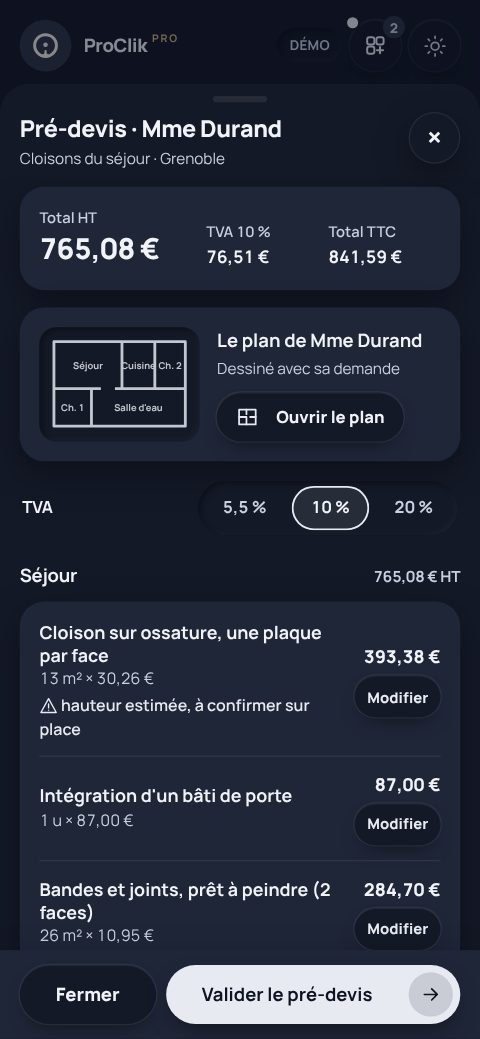
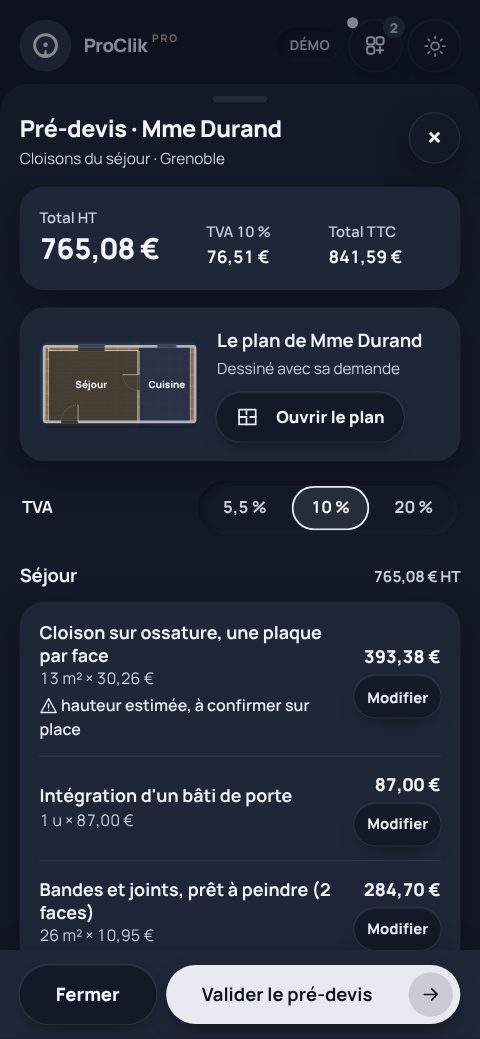
Pré-devis : miniature = vrai plan du client (jour/nuit) ; vitrine : fonction « Vos menus » avec son vrai écran
Claude-Session: https://claude.ai/code/session_0159Hfm1LCg6SKAvpkTMWikp

Changed region(s): [[0.0625, 0.308, 0.4375, 0.4312]]

diff --git a/index.html b/index.html
@@ -1298,6 +1298,7 @@ body[data-hz] .se-pan .se-t{font-size:10.5px;gap:5px;line-height:1.15}body[data-
         <li class="c7"><button class="pas" type="button" id="p-c7" data-k="c7" aria-haspopup="dialog"><svg class="ic" viewBox="0 0 24 24"><path d="M12 21s-6.5-5.6-6.5-11a6.5 6.5 0 0 1 13 0C18.5 15.4 12 21 12 21z"/><circle cx="12" cy="10" r="2.3"/></svg>Votre GPS<svg class="chev" viewBox="0 0 24 24" aria-hidden="true"><path d="m9 6 6 6-6 6"/></svg></button></li>
         <li class="c8"><button class="pas" type="button" id="p-c8" data-k="c8" aria-haspopup="dialog"><svg class="ic" viewBox="0 0 24 24"><rect x="4" y="4" width="7" height="7" rx="2"/><rect x="13" y="4" width="7" height="7" rx="2"/><rect x="4" y="13" width="7" height="7" rx="2"/><rect x="13" y="13" width="7" height="7" rx="2"/></svg>Votre accueil<svg class="chev" viewBox="0 0 24 24" aria-hidden="true"><path d="m9 6 6 6-6 6"/></svg></button></li>
         <li class="c9"><button class="pas" type="button" id="p-c9" data-k="c9" aria-haspopup="dialog"><svg class="ic" viewBox="0 0 24 24"><circle cx="9" cy="8.5" r="3.2"/><path d="M3 19.5a6 6 0 0 1 12 0"/><circle cx="16.5" cy="7" r="2.6"/><path d="M15.5 13.2A5.2 5.2 0 0 1 21 18.5"/></svg>Vos clients<svg class="chev" viewBox="0 0 24 24" aria-hidden="true"><path d="m9 6 6 6-6 6"/></svg></button></li>
+        <li class="c10"><button class="pas" type="button" id="p-c10" data-k="c10" aria-haspopup="dialog"><svg class="ic" viewBox="0 0 24 24"><rect x="3" y="15" width="18" height="6" rx="3"/><path d="M7 18h.01M12 18h.01M17 18h.01M5 5h14M5 9.5h9"/></svg>Vos menus<svg class="chev" viewBox="0 0 24 24" aria-hidden="true"><path d="m9 6 6 6-6 6"/></svg></button></li>
       </ul>
       <div class="appareils">
         <svg class="h-ring" viewBox="0 0 100 100" aria-hidden="true"><circle cx="50" cy="50" r="46"/><circle cx="50" cy="50" r="4" class="pt"/></svg>
@@ -1627,6 +1628,7 @@ document.querySelectorAll('.onglets button').forEach(b=>b.addEventListener('clic
    c7:['Inclus','Votre GPS','Google Maps, Waze ou Plans d’Apple : l’Espace ouvre celui que vous préférez.',['Depuis la fiche client, le chantier ou le planning','Le dernier choisi passe en premier','Un appui, vous êtes en route'],['v-f-gps']],
    c8:['Inclus','Votre accueil','Votre écran d’accueil se range comme celui de votre téléphone.',['Des blocs à déplacer du doigt','Trois dispositions toutes prêtes','Chiffres, journée, choses à faire : vous choisissez'],['v-f-accueil']],
    c9:['Inclus','Vos clients','Tous vos clients au même endroit, particuliers et entreprises, avec où en est chacun.',['Visite, chantier en cours, pré-devis à valider, tout est payé : vous le voyez','Recherche par nom, ville ou travaux','Un client se crée en un appui'],['v-clients']],
+   c10:['Inclus','Vos menus','Vous choisissez les menus toujours à portée de main, dans l’ordre que vous voulez.',['Sur téléphone : les 4 boutons de la barre du bas','Sur iPad et ordinateur : jusqu’à 10 boutons sur le côté','Les autres restent dans le gros bouton du milieu'],['v-f-menus']],
    p1:['Espace PRO','PRO · vous travaillez seul','Tout votre métier dans une seule appli : les demandes, les devis, les factures, l’agenda et vos chiffres.',['Les demandes arrivent rangées, avec le plan du client','Devis et factures conformes en quelques touches','Agenda synchronisé et carte de vos chantiers','Clients, dépenses et chiffre d’affaires au même endroit','Chaque matin, le point du jour. Et tout se dicte'],'galerie'],
    p2:['Espace TEAM','TEAM · vous êtes plusieurs','Tout ce que fait PRO, pour toute l’équipe, avec le chantier partagé dans le forfait.',['Le planning de l’équipe : qui est sur quel chantier, quel jour','Chantier partagé : une conversation avec vos salariés, les entreprises invitées par un lien','Sous-traitants et client : accès gratuit le temps du chantier','Réserves sur le plan, corrigées puis validées'],'galerie'],
    p3:['Espace ARCHI','ARCHI · vous menez le chantier des autres','Le chantier partagé avec toutes les entreprises et votre client, jusqu’à la réception signée.',['Chantier partagé : une conversation avec les entreprises et votre client','Le planning du chantier : chaque entreprise sait quand elle intervient','Tous les documents au même endroit, visibles seulement par ceux que vous autorisez','Entreprises et client : accès gratuit à leur espace privé','Chacun ne voit que ce qui le concerne','Réserves sur le plan, réception signée et son PV'],'galerie'],
@@ -1897,8 +1899,8 @@ var C=items('.sat.g',0),O=items('.sat.d',1),A=C.concat(O),AP=U.querySelector('.a
 /* 3. sélecteur */
 var se=document.createElement('div');se.className='se';se.innerHTML='<div class="se-s" role="group"><button type="button" aria-pressed="true" data-o="0">Inclus</button><button type="button" class="o" aria-pressed="false" data-o="1">En option</button></div><div class="se-g"></div>';U.appendChild(se);
 var sg=se.querySelector('.se-g');function fill(o){var L=o?O:C;se.classList.toggle('o',!!o);[].forEach.call(se.querySelectorAll('.se-s button'),function(b){b.setAttribute('aria-pressed',b.dataset.o==o)});sg.innerHTML=L.map(function(x,i){return '<button type="button" class="se-t" style="--n:'+i+'" data-i="'+i+'">'+x.ic+'<span>'+x.t+'<span class="se-x">'+(SX[x.b.dataset.k]||'')+'</span></span></button>'}).join('');[].forEach.call(sg.children,function(b,i){b.addEventListener('click',function(){if(document.body.dataset.cmp==='sel-ecran'){se.classList.add('touche');if(b.getAttribute('aria-current')==='true')vide();else montre(L,i)}else L[i].b.click()})});vide()}
-var SX={a1:'Votre page à votre nom, avec QR code.',a2:'Le client décrit ou dessine ses travaux.',a3:'Vous parlez, c’est écrit.',b1:'Synchronisé avec votre téléphone.',b2:'En quelques touches, prêts à envoyer.',b4:'Le client rappelé, rien d’oublié.',c2:'Sur place, une question à la fois.',c3:'Rappelées au bon moment.',c4:'Prêtes en un appui.',c5:'Photo du ticket ou dictée.',c6:'Dessinés sur place, gardés.',c7:'Waze, Google ou Plans.',c8:'Rangé comme votre téléphone.',c9:'Où en est chacun, d’un coup d’œil.',o1:'Le pré-devis préparé, vous validez.',o6:'Une conversation par chantier.',o2:'Créneau et acompte en ligne.',o3:'La demande d’avis au bon moment.',o4:'Vos chantiers publiés sans quitter l’Espace.',o5:'Les bonnes infos au bon moment.'};
-var imgK=function(k){var t=document.documentElement.getAttribute('data-theme'),n=t?t==='dark':matchMedia('(prefers-color-scheme: dark)').matches;return 'vitrine/f/'+k+(n?'-n':'')+'.jpg'},IMG={a1:'v-accueil',a2:'e-predevis',a3:'v-f-depenses',b1:'v-planning',b2:'v-factures',b4:'v-f-entretiens',c2:'v-f-cotes',c3:'v-f-situation',c4:'v-f-commande',c5:'v-f-depenses',c6:'v-plan',c7:'v-f-gps',c8:'v-f-accueil',c9:'v-clients',o1:'v-cliky-devis',o6:'e-conversation',o2:'v-resa',o3:'v-chantier',o4:'v-reseaux',o5:'e-conv-client'};
+var SX={a1:'Votre page à votre nom, avec QR code.',a2:'Le client décrit ou dessine ses travaux.',a3:'Vous parlez, c’est écrit.',b1:'Synchronisé avec votre téléphone.',b2:'En quelques touches, prêts à envoyer.',b4:'Le client rappelé, rien d’oublié.',c2:'Sur place, une question à la fois.',c3:'Rappelées au bon moment.',c4:'Prêtes en un appui.',c5:'Photo du ticket ou dictée.',c6:'Dessinés sur place, gardés.',c7:'Waze, Google ou Plans.',c8:'Rangé comme votre téléphone.',c9:'Où en est chacun, d’un coup d’œil.',c10:'Les boutons que vous voulez, où vous voulez.',o1:'Le pré-devis préparé, vous validez.',o6:'Une conversation par chantier.',o2:'Créneau et acompte en ligne.',o3:'La demande d’avis au bon moment.',o4:'Vos chantiers publiés sans quitter l’Espace.',o5:'Les bonnes infos au bon moment.'};
+var imgK=function(k){var t=document.documentElement.getAttribute('data-theme'),n=t?t==='dark':matchMedia('(prefers-color-scheme: dark)').matches;return 'vitrine/f/'+k+(n?'-n':'')+'.jpg'},IMG={a1:'v-accueil',a2:'e-predevis',a3:'v-f-depenses',b1:'v-planning',b2:'v-factures',b4:'v-f-entretiens',c2:'v-f-cotes',c3:'v-f-situation',c4:'v-f-commande',c5:'v-f-depenses',c6:'v-plan',c7:'v-f-gps',c8:'v-f-accueil',c9:'v-clients',c10:'v-f-menus',o1:'v-cliky-devis',o6:'e-conversation',o2:'v-resa',o3:'v-chantier',o4:'v-reseaux',o5:'e-conv-client'};
 var ph2=U.querySelector('.iphone .scr'),sx=document.createElement('div');sx.className='sx-st';var KS=Object.keys(IMG);sx.innerHTML=KS.map(function(k){return '<img alt="" loading="lazy" decoding="async" data-k="'+k+'" src="vitrine/'+IMG[k]+'.jpg">'}).join('');if(ph2)ph2.appendChild(sx);
 var cur=null,ex=document.createElement('div');ex.className='se-e';ex.setAttribute('aria-live','polite');se.insertBefore(ex,se.querySelector('.se-g'));var hn=document.createElement('p');hn.className='se-h';hn.innerHTML='<i></i>Touchez une icône pour la voir à l’écran';se.appendChild(hn);
 function exPos(){var ap=U.querySelector('.appareils');if(!ap)return;var w=U.clientWidth,aw=ap.offsetWidth,free=(w-aw)/2-110;if((innerWidth>980&&free>=230)||document.body.classList.contains('pan-on')){ex.classList.add('cote');ex.style.width=Math.min(330,free)+'px';ex.style.top=(ap.offsetTop+ap.offsetHeight/2)+'px'}else{ex.classList.remove('cote');ex.style.width='';ex.style.top=''}}

diff --git a/espace-depart/devis.js b/espace-depart/devis.js
@@ -92,8 +92,7 @@ function ligneVal(v){var s=STV[v.st]||STV.valide;return '<button class="cf-li" t
 var CUR=null,ARME='';
 function totaux(doc){var ht=0;doc.L.forEach(function(l){ht+=r2(l.q*l.p)});ht=r2(ht);var tv=r2(ht*doc.tva/100);return{ht:ht,tv:tv,ttc:r2(ht+tv)}}
 function pieces(doc){var P=[];doc.L.forEach(function(l){var p=l.pc||'Ensemble';if(P.indexOf(p)<0)P.push(p)});return P}
-function planMini(){return '<svg viewBox="0 0 120 80" aria-hidden="true" class="dv-mini"><g fill="none" stroke="currentColor" stroke-width="2.4" stroke-linejoin="round"><path d="M4 4h112v72H4z"/><path d="M62 4v40M4 44h58M90 4v40M62 44h54M36 44v32"/></g><path d="M44 44h12" stroke="var(--cx)" stroke-width="3"/>'+
- '<g font-family="Manrope,sans-serif" font-weight="700" font-size="8" fill="currentColor" text-anchor="middle"><text x="33" y="27">Séjour</text><text x="76" y="27">Cuisine</text><text x="103" y="27">Ch. 2</text><text x="20" y="63">Ch. 1</text><text x="76" y="63">Salle d\'eau</text></g></svg>'}
+function planMini(){/* même miniature que le vrai plan du client (plan-mini.js), jour et nuit */if(window.PC_PLAN_MINI)return window.PC_PLAN_MINI;return '<svg viewBox="0 0 120 80" aria-hidden="true" class="dv-mini"><path d="M4 4h112v72H4z" fill="none" stroke="currentColor" stroke-width="2.4"/></svg>'}
 function editeur(doc,mode,garder){CUR={doc:doc,mode:mode};var t=totaux(doc),fige=mode==='pre'&&!PRE(doc)&&!FOUR(doc),y=$('#x-in')?$('#x-in').scrollTop:0;
  var h='';
  if(mode!=='pre'){var K=Object.keys(DOS);h+='<div class="cf-form dv-qui"><label>Pour qui<select id="dv-c">'+K.map(function(k){return '<option value="'+k+'"'+(k===doc.cli?' selected':'')+'>'+esc(DOS[k].n)+'</option>'}).join('')+'</select></label>'+

diff --git a/espace-depart/devis.css b/espace-depart/devis.css
@@ -11,7 +11,7 @@ html body .cf .dv-seg button{position:relative;display:flex;flex-direction:colum
 /* Le plan en tête du pré-devis */
 .dv-plan{display:flex;align-items:center;gap:14px}
 .dv-plan-m{flex:none;width:40%;max-width:180px;padding:8px;border-radius:14px;background:var(--cx);box-shadow:var(--in)}
-.dv-plan-m svg{display:block;width:100%;height:auto;color:var(--fg);opacity:.8}
+.dv-plan-m svg{display:block;width:100%;height:auto;color:var(--fg)}.dv-plan-m svg.dv-mini{opacity:.8}.dv-plan-m:has(svg.pm-j){padding:0;background:none;box-shadow:none}.dv-plan-m svg.pm-j,.dv-plan-m svg.pm-n{border-radius:10px}.dv-plan-m svg.pm-n,html[data-theme=dark] .dv-plan-m svg.pm-j{display:none}html[data-theme=dark] .dv-plan-m svg.pm-n{display:block}
 .dv-plan-t{display:grid;gap:4px;min-width:0}.dv-plan-t b{font-size:15px}.dv-plan-t small{font-size:12.5px;color:var(--muted)}
 .dv-plan-t .btn{margin-top:6px;display:inline-flex;align-items:center;gap:8px;justify-self:start}
 .dv-plan-t svg,.dv-add svg,.cf-main svg{width:17px;height:17px;fill:none;stroke:currentColor;stroke-width:1.7;stroke-linecap:round;stroke-linejoin:round;color:var(--accx)}

diff --git a/espace-depart/index.html b/espace-depart/index.html
@@ -1700,8 +1700,8 @@ document.addEventListener('keydown',function(e){if(e.key==='Escape'&&!ov.hidden)
 <link rel="stylesheet" href="clients.css?v=5">
 <script src="gps.js?v=1"></script>
 <script src="clients.js?v=12"></script>
-<link rel="stylesheet" href="devis.css?v=3">
-<script src="devis.js?v=7"></script>
+<link rel="stylesheet" href="devis.css?v=4">
+<script src="devis.js?v=8"></script>
 <script src="commandes.js?v=2"></script>
 <link rel="stylesheet" href="chantiers.css?v=18">
 <script src="photos-demo.js?v=3"></script><script src="chantiers.js?v=28"></script><script src="journee.js?v=11"></script><script src="adresse.js?v=1"></script><script src="plans.js?v=14"></script>
